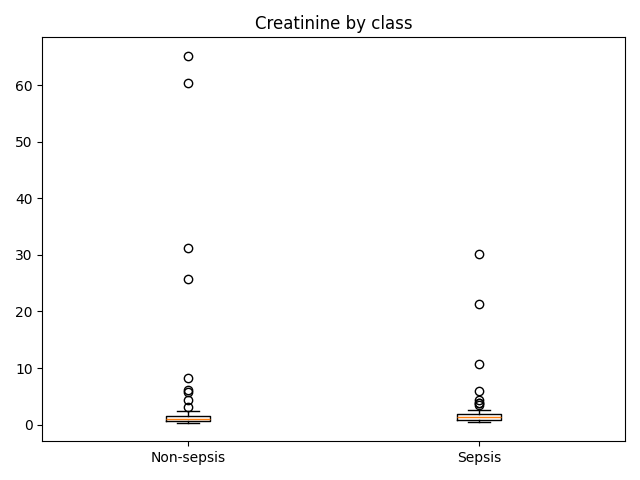
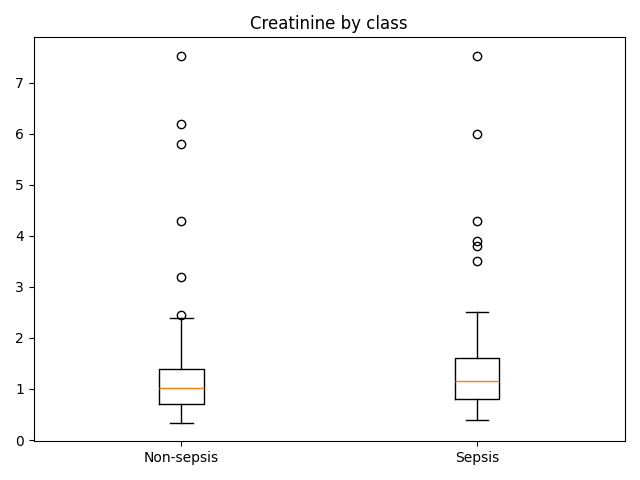
plots working

diff --git a/scripts/make_analysis_dataset.py b/scripts/make_analysis_dataset.py
@@ -1,19 +1,18 @@
 #!/usr/bin/env python3
 """
-make_analysis_dataset.py (robust, fallback-friendly)
-- Normalizes headers to UPPERCASE for all CSVs.
-- Parses date columns only if present.
-- Computes age safely (no nanosecond subtraction overflow).
-- Sepsis label from ICD-9 with guaranteed 'SEPSIS' column.
-- Vitals mapping: dictionary first, then unit/range heuristics fallback.
-- Chunks only CHARTEVENTS / LABEVENTS to handle large files.
+make_analysis_dataset.py (robust, with outlier handling & richer plots)
+- Normalizes headers to UPPERCASE.
+- Safe age computation.
+- Sepsis label from ICD-9.
+- 24h ICU vitals & labs aggregation.
+- Physiologic bounds + winsorization.
+- Plots: class balance, age hist, boxplots, log-hists for skewed labs, annotated heatmap.
 """
 import os, re, gc, warnings
 import numpy as np
 import pandas as pd
 import matplotlib.pyplot as plt
 
-# Optional: silence mixed dtype warnings from huge CSVs
 warnings.filterwarnings("ignore", category=pd.errors.DtypeWarning)
 
 DATA_DIR = os.path.join(os.path.dirname(__file__), "..", "data")
@@ -22,10 +21,6 @@ os.makedirs(PLOT_DIR, exist_ok=True)
 
 # ---------- IO helpers ----------
 def read_csv_upper(path, want_cols=None, want_dates=None, chunksize=None):
-    """
-    For large tables (when chunksize is provided), yields normalized chunks.
-    For small tables (no chunksize), returns a DataFrame with normalized headers.
-    """
     if chunksize is not None:
         it = pd.read_csv(path, low_memory=True, chunksize=chunksize)
         for chunk in it:
@@ -40,7 +35,6 @@ def read_csv_upper(path, want_cols=None, want_dates=None, chunksize=None):
                         chunk[cu] = pd.to_datetime(chunk[cu], errors='coerce')
             yield chunk
         return
-
     df = pd.read_csv(path, low_memory=False)
     df.columns = df.columns.str.upper()
     if want_cols is not None:
@@ -54,10 +48,6 @@ def read_csv_upper(path, want_cols=None, want_dates=None, chunksize=None):
     return df
 
 def read_core_df(path, want_cols=None, want_dates=None):
-    """
-    Force DataFrame (no chunking) and normalize headers.
-    Use for small tables: PATIENTS, ADMISSIONS, ICUSTAYS, DIAGNOSES_ICD, dictionaries.
-    """
     df = pd.read_csv(path, low_memory=False)
     df.columns = df.columns.str.upper()
     if want_dates:
@@ -82,8 +72,34 @@ def map_feature(label, mapping):
             return feat
     return None
 
+# --- Outlier handling helpers ---
+def apply_physiologic_bounds(df: pd.DataFrame) -> pd.DataFrame:
+    bounds = {
+        "temp_c": (25, 45),
+        "spo2": (50, 100),
+        "heart_rate": (20, 220),
+        "resp_rate": (4, 80),
+        "mean_bp": (25, 250),
+        "lactate": (0, 20),
+        "wbc": (0.1, 200),
+        "platelets": (5, 1500),
+        "creatinine": (0.1, 20),
+    }
+    for col, (lo, hi) in bounds.items():
+        if col in df.columns:
+            df.loc[~df[col].between(lo, hi), col] = np.nan
+    return df
+
+def winsorize(df: pd.DataFrame, cols: list, p_low=0.01, p_high=0.99) -> pd.DataFrame:
+    for col in cols:
+        if col in df.columns:
+            lo, hi = df[col].quantile([p_low, p_high])
+            if pd.notna(lo) and pd.notna(hi) and lo < hi:
+                df[col] = df[col].clip(lo, hi)
+    return df
+
 def main():
-    # --- Load core tables (force DF, normalized headers) ---
+    # --- Load core tables ---
     patients  = read_core_df(os.path.join(DATA_DIR, "PATIENTS.csv"),
                              want_cols=["SUBJECT_ID","GENDER","DOB","DOD"],
                              want_dates=["DOB","DOD"])
@@ -100,7 +116,7 @@ def main():
     print("ADMISSIONS columns:", list(admissions.columns))
     print("ICUSTAYS columns:", list(icustays.columns))
 
-    # --- Build merged ICU dataframe ---
+    # --- Merge & age ---
     icu = icustays.merge(
         admissions[["SUBJECT_ID","HADM_ID","ADMITTIME"]],
         on=["SUBJECT_ID","HADM_ID"], how="left"
@@ -108,49 +124,35 @@ def main():
         patients[["SUBJECT_ID","GENDER","DOB"]],
         on="SUBJECT_ID", how="left"
     )
-
-    # --- SAFE age computation (avoid ns overflow) ---
     icu["AGE_YEARS"] = np.nan
     mask = icu["ADMITTIME"].notna() & icu["DOB"].notna()
-
-    # calendar-year difference
     age_years = icu.loc[mask, "ADMITTIME"].dt.year - icu.loc[mask, "DOB"].dt.year
-    # adjust if birthday hasn’t occurred yet this year
     adm_md = icu.loc[mask, "ADMITTIME"].dt.strftime("%m%d").astype(int)
     dob_md = icu.loc[mask, "DOB"].dt.strftime("%m%d").astype(int)
     age_years = age_years - (adm_md < dob_md).astype(int)
-
     icu.loc[mask, "AGE_YEARS"] = age_years
     icu["AGE_YEARS"] = icu["AGE_YEARS"].clip(lower=0, upper=120)
 
-    # --- Base cohort for later joins ---
     icustays_basic = icu[[
         "SUBJECT_ID","HADM_ID","ICUSTAY_ID","INTIME","OUTTIME","LOS","GENDER","AGE_YEARS"
     ]].copy()
 
-    # --- Sepsis label from ICD-9 (guaranteed column) ---
+    # --- Sepsis label ---
     sepsis_codes = {"99591", "99592", "78552"}
     diag["ICD9_NORM"] = diag["ICD9_CODE"].apply(normalize_icd)
     diag["SEPSIS"] = diag["ICD9_NORM"].isin(sepsis_codes).astype(int)
     hadm_sepsis = diag.groupby(["SUBJECT_ID", "HADM_ID"], as_index=False)["SEPSIS"].max()
-
     icustays_lbl = icustays_basic.merge(hadm_sepsis, on=["SUBJECT_ID","HADM_ID"], how="left")
     icustays_lbl["SEPSIS"] = icustays_lbl["SEPSIS"].fillna(0).astype(int)
 
-    # --- Dictionaries (optional) ---
+    # --- Dictionaries ---
     d_labitems_path = os.path.join(DATA_DIR, "D_LABITEMS.csv")
     have_d_lab = os.path.exists(d_labitems_path)
-    if have_d_lab:
-        d_labitems = read_core_df(d_labitems_path, want_cols=["ITEMID","LABEL","FLUID","CATEGORY"])
-    else:
-        d_labitems = pd.DataFrame(columns=["ITEMID","LABEL","FLUID","CATEGORY"])
+    d_labitems = read_core_df(d_labitems_path, want_cols=["ITEMID","LABEL","FLUID","CATEGORY"]) if have_d_lab else pd.DataFrame(columns=["ITEMID","LABEL","FLUID","CATEGORY"])
 
     d_items_path = os.path.join(DATA_DIR, "D_ITEMS.csv")
     have_d_items = os.path.exists(d_items_path)
-    if have_d_items:
-        d_items = read_core_df(d_items_path, want_cols=["ITEMID","LABEL","CATEGORY"])
-    else:
-        d_items = pd.DataFrame(columns=["ITEMID","LABEL","CATEGORY"])
+    d_items = read_core_df(d_items_path, want_cols=["ITEMID","LABEL","CATEGORY"]) if have_d_items else pd.DataFrame(columns=["ITEMID","LABEL","CATEGORY"])
 
     vital_name_patterns = {
         "HEART_RATE": r"(?i)\bheart\s*rate\b|HR\b",
@@ -179,7 +181,7 @@ def main():
     else:
         lab_itemids = {k: set() for k in lab_name_patterns}
 
-    # --- First-24h ICU window ---
+    # --- First-24h window ---
     icustay_windows = icustays_lbl[[
         "SUBJECT_ID","HADM_ID","ICUSTAY_ID","INTIME","OUTTIME","SEPSIS","GENDER","AGE_YEARS"
     ]].copy()
@@ -195,7 +197,6 @@ def main():
         for chunk in read_csv_upper(vitals_path, want_cols=cols, want_dates=["CHARTTIME"], chunksize=1_000_000):
             if "ICUSTAY_ID" in chunk.columns:
                 chunk = chunk[chunk["ICUSTAY_ID"].isin(valid_icustays)]
-            # join time window
             chunk = chunk.merge(icustay_windows[["ICUSTAY_ID","INTIME","END_24H"]], on="ICUSTAY_ID", how="left")
             if "CHARTTIME" in chunk.columns:
                 chunk = chunk[(chunk["CHARTTIME"] >= chunk["INTIME"]) & (chunk["CHARTTIME"] < chunk["END_24H"])]
@@ -203,36 +204,29 @@ def main():
                 allowed = set().union(*vital_itemids.values())
                 chunk = chunk[chunk["ITEMID"].isin(allowed)]
             else:
-                # heuristic filter by units/value presence
                 chunk = chunk[(chunk["VALUENUM"].notna()) &
                               (chunk["VALUEUOM"].fillna("").str.contains("bpm|C|F|mmHg|%", case=False))]
-            # keep VALUEUOM for heuristics
             vital_events.append(chunk[["ICUSTAY_ID","ITEMID","VALUENUM","VALUEUOM"]])
 
     vitals_24h = pd.concat(vital_events, ignore_index=True) if vital_events else pd.DataFrame(columns=["ICUSTAY_ID","ITEMID","VALUENUM","VALUEUOM"])
     del vital_events; gc.collect()
 
-    # --- Map vitals to features (dictionary first, then heuristics) ---
     if len(vitals_24h):
-        # dictionary-based mapping (if we have D_ITEMS)
         if have_d_items and "ITEMID" in vitals_24h.columns and len(d_items):
             vitals_24h = vitals_24h.merge(d_items[["ITEMID","LABEL"]], on="ITEMID", how="left")
             vitals_24h["FEAT"] = vitals_24h["LABEL"].apply(lambda x: map_feature(x, vital_name_patterns))
 
-        # ensure FEAT is object-typed so we can store strings safely
         if "FEAT" not in vitals_24h.columns:
             vitals_24h["FEAT"] = pd.Series(index=vitals_24h.index, dtype=object)
         else:
             vitals_24h["FEAT"] = vitals_24h["FEAT"].astype(object)
 
-        # heuristic fallback if FEAT missing or all NaN
         if ("FEAT" not in vitals_24h.columns) or (vitals_24h["FEAT"].isna().all()):
             if "VALUEUOM" not in vitals_24h.columns:
                 vitals_24h["VALUEUOM"] = ""
             uom = vitals_24h["VALUEUOM"].fillna("").str.lower()
             vitals_24h["FEAT"] = np.nan
 
-            # temperature (C/F) -> convert F to C if value looks Fahrenheit
             temp_mask = (uom.str.contains("c") | uom.str.contains("f")) & vitals_24h["VALUENUM"].notna()
             if temp_mask.any():
                 vals = pd.to_numeric(vitals_24h.loc[temp_mask, "VALUENUM"], errors="coerce")
@@ -242,15 +236,12 @@ def main():
                 vitals_24h.loc[temp_mask, "VALUENUM"] = vals_c
                 vitals_24h.loc[temp_mask, "FEAT"] = "TEMP_C"
 
-            # SpO2: %
-            spo2_mask = uom.str.contains("%")
+            spo2_mask = uom.str_contains = uom.str.contains("%")
             vitals_24h.loc[spo2_mask, "FEAT"] = vitals_24h.loc[spo2_mask, "FEAT"].fillna("SPO2")
 
-            # mmHg → treat as MEAN_BP (can't reliably split SBP/MAP without labels)
             bp_mask = uom.str.contains("mmhg")
             vitals_24h.loc[bp_mask, "FEAT"] = vitals_24h.loc[bp_mask, "FEAT"].fillna("MEAN_BP")
 
-            # bpm → RR if ≤40 else HR (simple heuristic)
             bpm_mask = uom.str.contains("bpm") & vitals_24h["VALUENUM"].notna()
             if bpm_mask.any():
                 vals_bpm = pd.to_numeric(vitals_24h.loc[bpm_mask, "VALUENUM"], errors="coerce")
@@ -261,17 +252,15 @@ def main():
                 vitals_24h.loc[rr_rows, "FEAT"] = vitals_24h.loc[rr_rows, "FEAT"].fillna("RESP_RATE")
                 vitals_24h.loc[hr_rows, "FEAT"] = vitals_24h.loc[hr_rows, "FEAT"].fillna("HEART_RATE")
 
-            # drop rows we still cannot map
             vitals_24h = vitals_24h[vitals_24h["FEAT"].notna()]
 
-    # --- Aggregate vitals ---
     if len(vitals_24h) and "FEAT" in vitals_24h.columns:
         vitals_24h["VALUENUM"] = pd.to_numeric(vitals_24h["VALUENUM"], errors="coerce")
         agg_vitals = vitals_24h.groupby(["ICUSTAY_ID","FEAT"])["VALUENUM"].mean().unstack("FEAT")
     else:
         agg_vitals = pd.DataFrame()
 
-    # --- LABEVENTS (labs) ---
+    # --- LABEVENTS ---
     labs_path = os.path.join(DATA_DIR, "LABEVENTS.csv")
     lab_events = []
     if os.path.exists(labs_path):
@@ -311,10 +300,8 @@ def main():
     if len(agg_labs):
         features = features.join(agg_labs, how="left")
 
-    # reset first, THEN lowercase so index name also gets lowercased
-    features.reset_index(inplace=True)              # brings ICUSTAY_ID out as a column
-    features.columns = [c.lower() for c in features.columns]  # now we have 'icustay_id'
-
+    features.reset_index(inplace=True)
+    features.columns = [c.lower() for c in features.columns]
 
     # --- Clean & transform ---
     keep_cols = ["icustay_id","sepsis","gender","age_years"]
@@ -328,12 +315,19 @@ def main():
 
     for col in good_numeric:
         clean[col] = pd.to_numeric(clean[col], errors="coerce")
-        clean[col] = clean[col].fillna(clean[col].median())
 
+    # 1) physiologic bounds
+    clean = apply_physiologic_bounds(clean)
+    # 2) impute
+    for col in good_numeric:
+        clean[col] = clean[col].fillna(clean[col].median())
+    # 3) winsorize
+    clean = winsorize(clean, good_numeric, 0.01, 0.99)
+    # 4) log1p features (kept for ML)
     for col in ["lactate","wbc","platelets","creatinine"]:
         if col in clean.columns:
             clean[f"log1p_{col}"] = np.log1p(clean[col])
-
+    # 5) z-scores
     for col in good_numeric:
         mu, sigma = clean[col].mean(), clean[col].std(ddof=0)
         if sigma and sigma > 0:
@@ -343,7 +337,7 @@ def main():
     clean.head(20).to_csv(out_preview, index=False)
     print("Saved preview to", out_preview)
 
-    # --- Plots ---
+    # ---------- Plots ----------
     # Class balance
     if "sepsis" in clean.columns:
         plt.figure()
@@ -368,7 +362,7 @@ def main():
         plt.tight_layout()
         plt.savefig(os.path.join(PLOT_DIR, "age_hist_by_class.png"))
 
-    # Boxplots for some features
+    # Boxplots
     def boxplot_feature(col, title):
         if col in clean.columns and "sepsis" in clean.columns:
             plt.figure()
@@ -381,15 +375,50 @@ def main():
     for col in ["heart_rate","resp_rate","temp_c","mean_bp","spo2","lactate","wbc","platelets","creatinine"]:
         boxplot_feature(col, f"{col.replace('_',' ').title()} by class")
 
-    # Correlation heatmap (z-scored)
+    # NEW: Log-scaled histograms for skewed labs
+    skewed = [c for c in ["wbc","creatinine","platelets","lactate"] if c in clean.columns]
+    for col in skewed:
+        # raw histogram
+        plt.figure()
+        if "sepsis" in clean.columns:
+            clean[clean["sepsis"]==0][col].plot(kind="hist", alpha=0.6, bins=30)
+            clean[clean["sepsis"]==1][col].plot(kind="hist", alpha=0.6, bins=30)
+            plt.legend(["Non-sepsis","Sepsis"])
+        else:
+            clean[col].plot(kind="hist", bins=30)
+        plt.xlabel(col.replace("_"," ").title())
+        plt.title(f"{col.replace('_',' ').title()} (raw scale)")
+        plt.tight_layout()
+        plt.savefig(os.path.join(PLOT_DIR, f"hist_{col}.png"))
+
+        # log1p histogram
+        plt.figure()
+        vals0 = np.log1p(clean[clean["sepsis"]==0][col]) if "sepsis" in clean.columns else np.log1p(clean[col])
+        vals1 = np.log1p(clean[clean["sepsis"]==1][col]) if "sepsis" in clean.columns else None
+        if "sepsis" in clean.columns:
+            vals0.plot(kind="hist", alpha=0.6, bins=30)
+            vals1.plot(kind="hist", alpha=0.6, bins=30)
+            plt.legend(["Non-sepsis","Sepsis"])
+        else:
+            vals0.plot(kind="hist", bins=30)
+        plt.xlabel(f"log1p({col})")
+        plt.title(f"{col.replace('_',' ').title()} (log scale)")
+        plt.tight_layout()
+        plt.savefig(os.path.join(PLOT_DIR, f"hist_log_{col}.png"))
+
+    # Annotated correlation heatmap
     z_cols = [c for c in clean.columns if c.startswith("z_")]
     if len(z_cols) >= 2:
         corr = clean[z_cols].corr()
-        plt.figure(figsize=(7,6))
-        plt.imshow(corr, interpolation='nearest')
-        plt.colorbar()
+        plt.figure(figsize=(8,7))
+        im = plt.imshow(corr, interpolation='nearest')
+        plt.colorbar(im)
         plt.xticks(range(len(z_cols)), z_cols, rotation=90)
         plt.yticks(range(len(z_cols)), z_cols)
+        # annotate with values
+        for i in range(len(z_cols)):
+            for j in range(len(z_cols)):
+                plt.text(j, i, f"{corr.iat[i,j]:.2f}", ha="center", va="center", fontsize=8)
         plt.title("Correlation heatmap (z-scored features)")
         plt.tight_layout()
         plt.savefig(os.path.join(PLOT_DIR, "corr_heatmap.png"))
